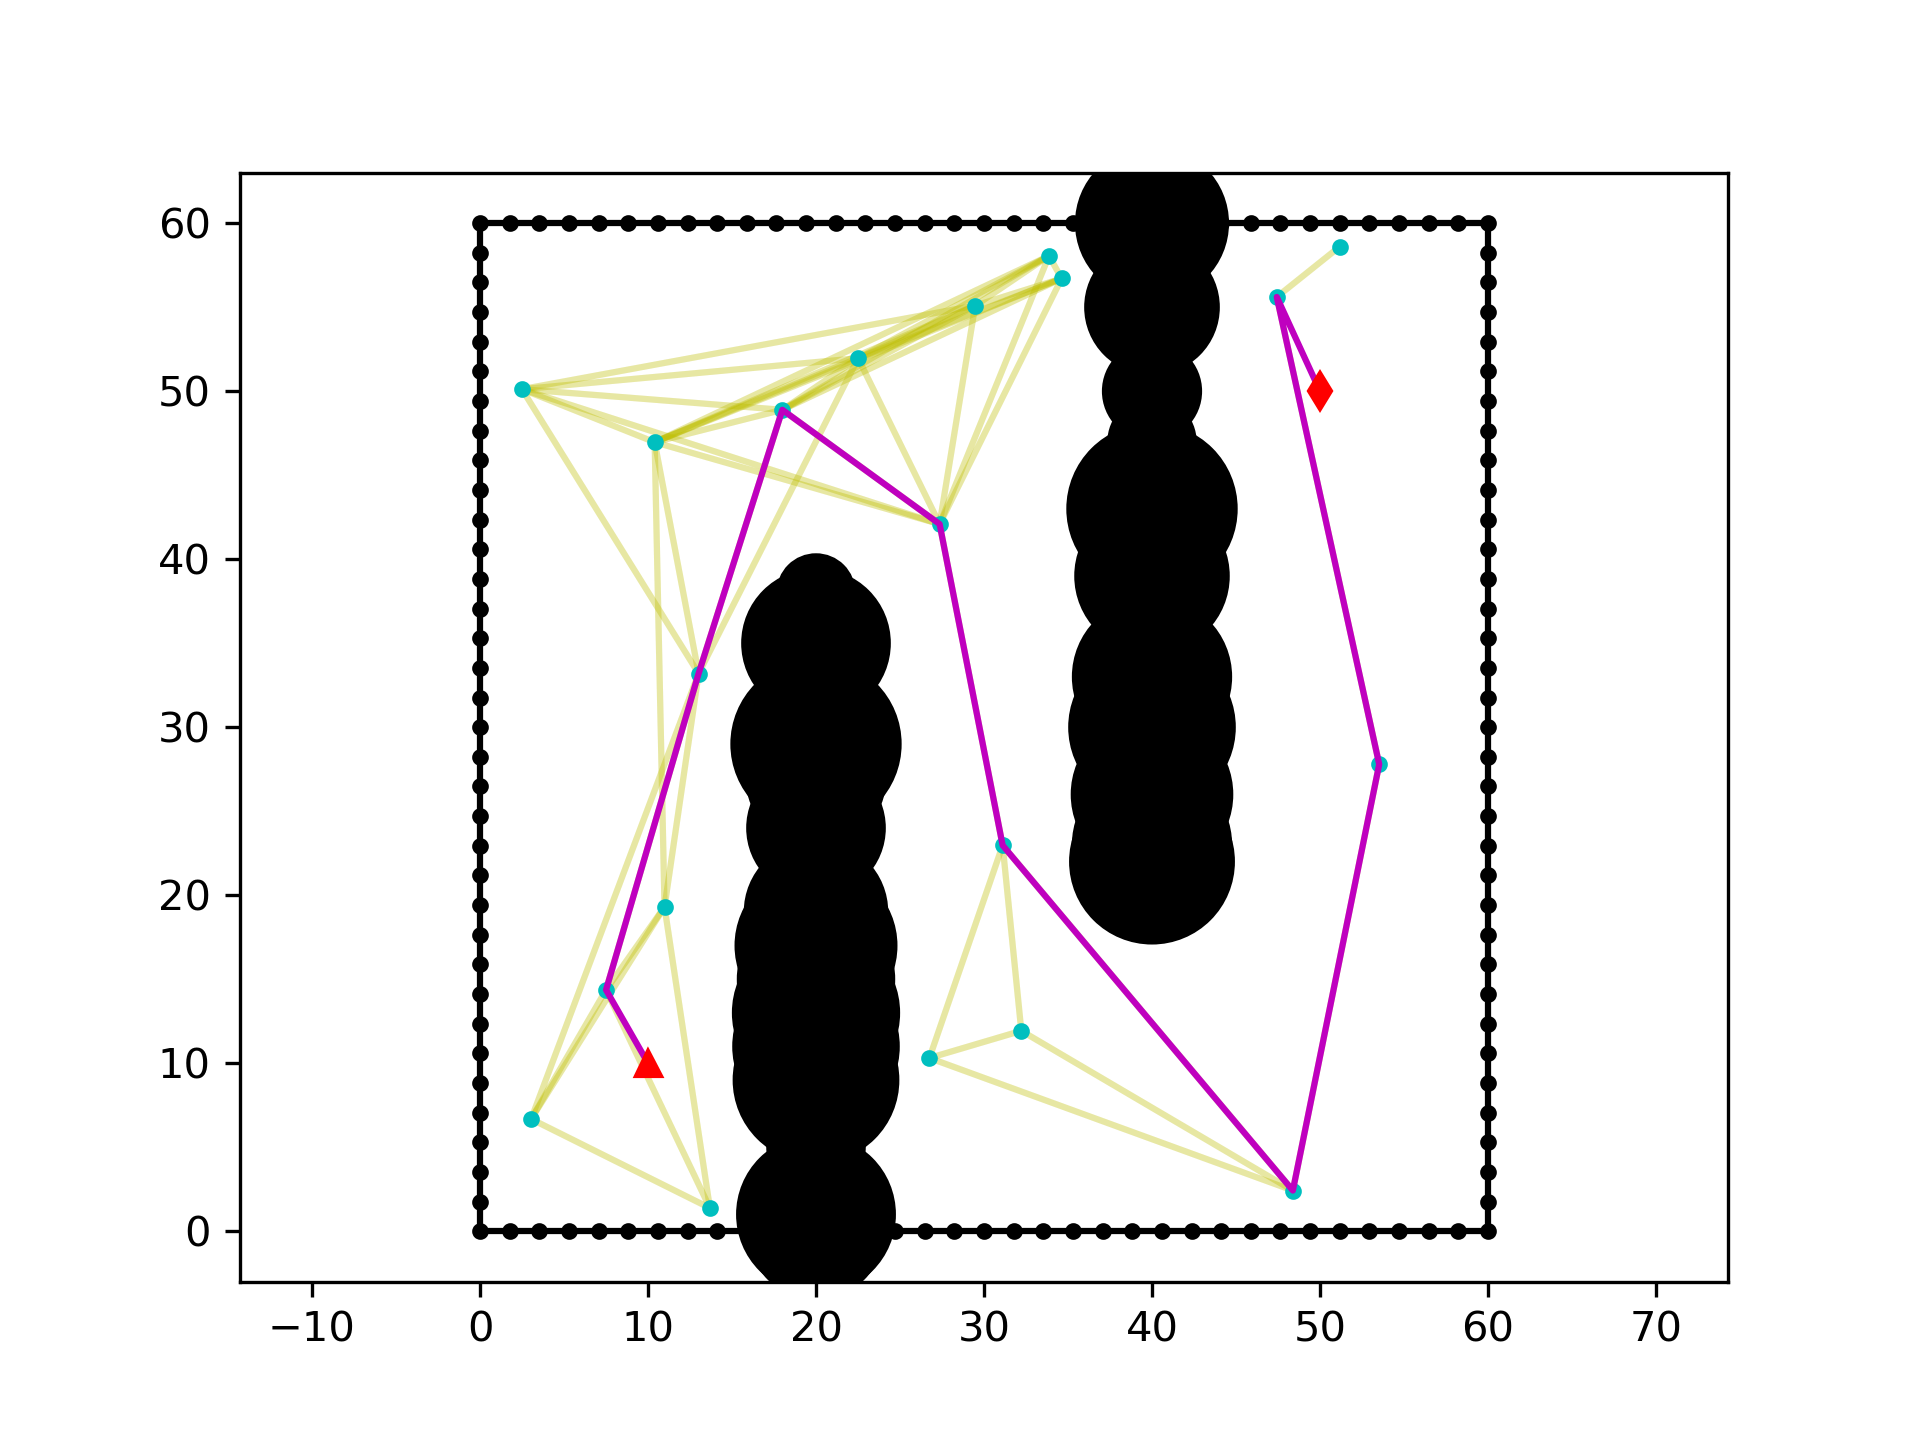
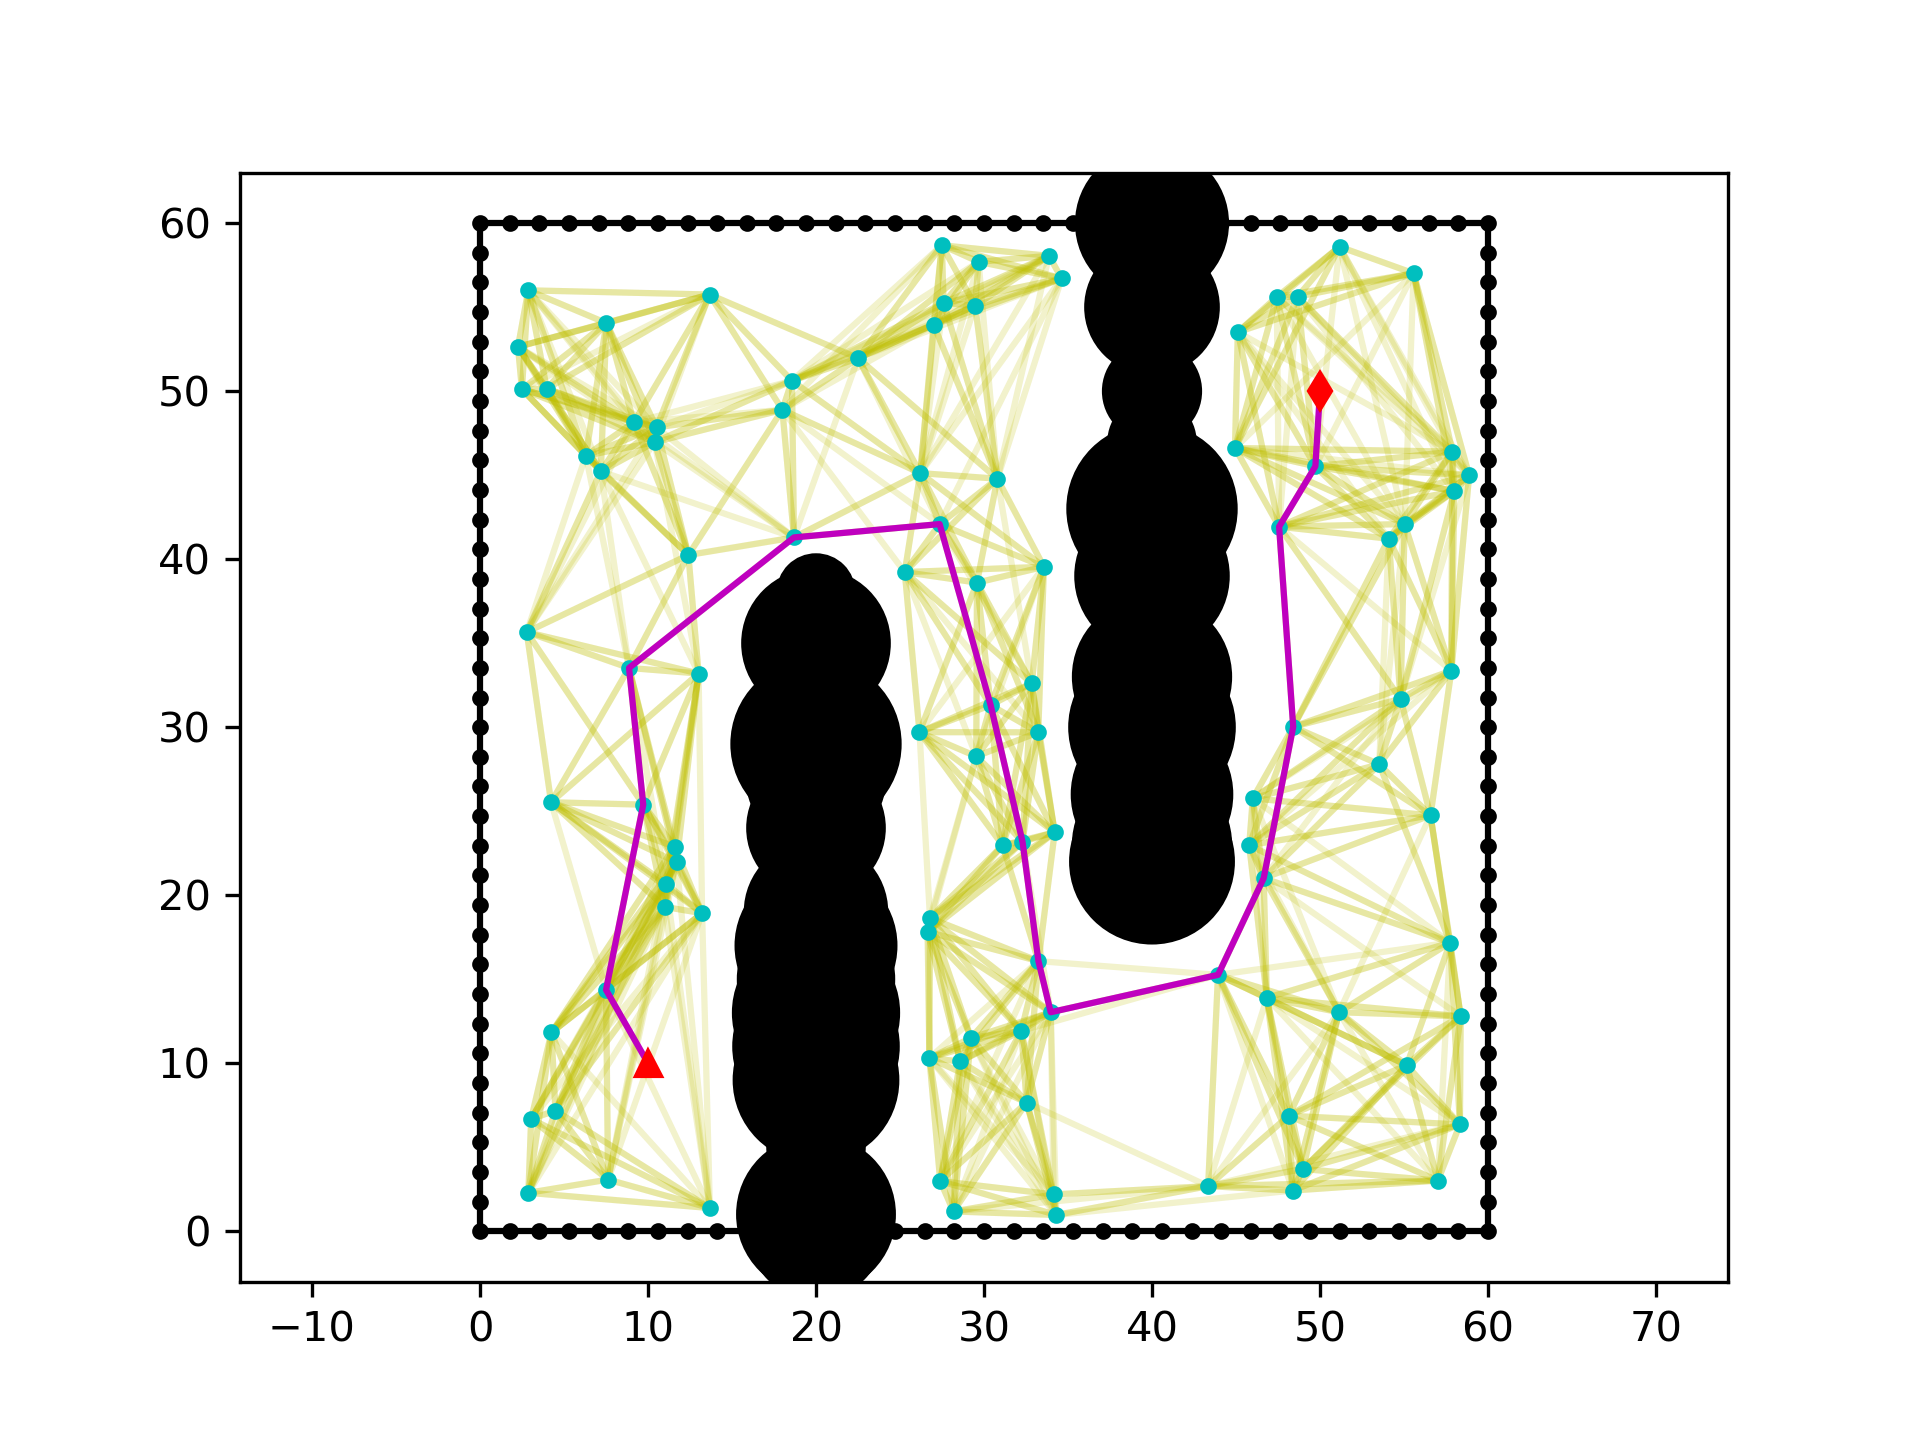
[DEBUG] Modifies sample config

Changed region(s): [[0.25, 0.1562, 0.7812, 0.8438]]

diff --git a/src/debug/prm/debug_prm.py b/src/debug/prm/debug_prm.py
@@ -27,11 +27,12 @@ def load_sample_problem(animation=True):
     test_problem_folder = '../../sample_data/test_problem/'
     with open(os.path.join(test_problem_folder, 'map.pickle'), 'rb') as f:
         test_map = pickle.load(f)
+        test_map['rnd_seed'] = None
     with open(os.path.join(test_problem_folder, 'queries.pickle'), 'rb') as f:
         test_queries = pickle.load(f)
     test_query = test_queries[0]
     test_query['animation'] = animation
-    logger.info('Seed: %d' % test_map['rnd_seed'])
+    logger.info('Seed: %s' % test_map['rnd_seed'])
     return test_map, test_query
 
 

diff --git a/src/sample_data/sample_data.py b/src/sample_data/sample_data.py
@@ -69,7 +69,7 @@ def store_test_problem(folder: str = './test_problem/') -> None:
 
     test_map, test_queries = get_test_problem(
         cur_seed=666666,
-        init_n_samples=20
+        init_n_samples=100
     )
 
     to_files = [
